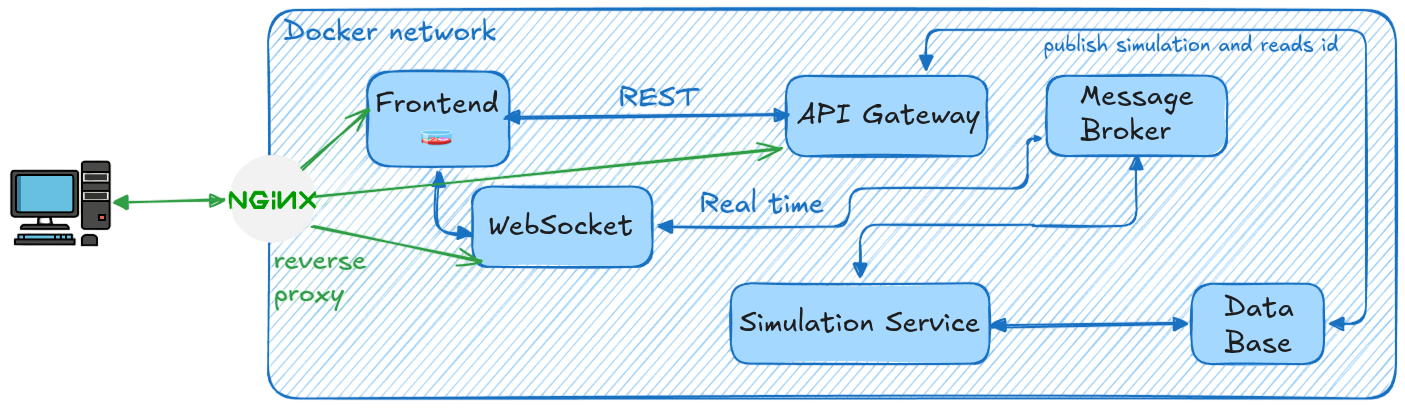
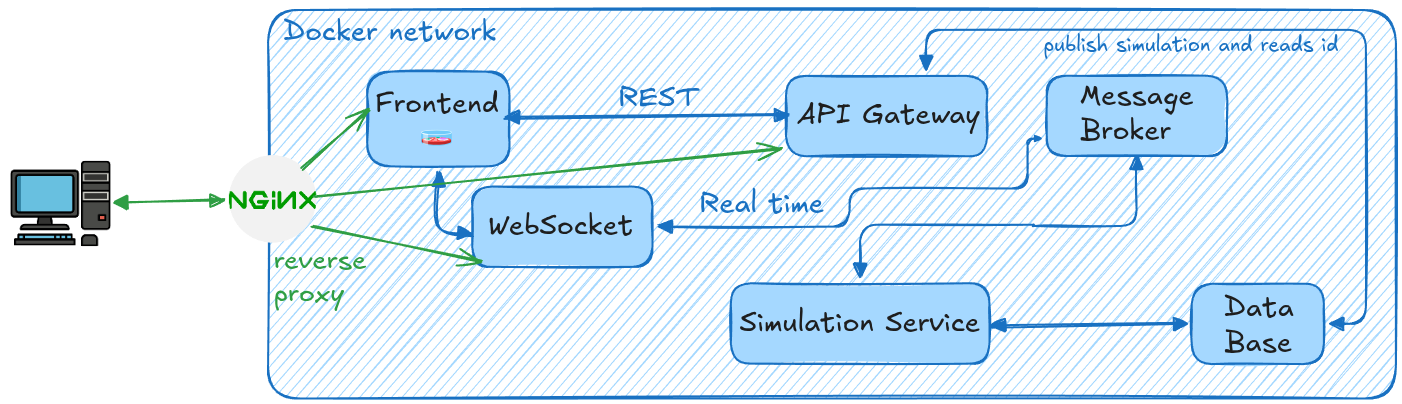
fix: readme added image again

diff --git a/README.md b/README.md
@@ -6,7 +6,7 @@ A scalable, asynchronous simulation system based on an event-driven architecture
 
 The system consists of decoupled services that communicate through a message broker.
 
-![Architecture Design](./architecture_desgin.png)
+<img src="./architecture_desgin.png" alt="Architecture Diagram"/>
 
 ### Workflow
 1. **API:** Receives the request via `POST /simulate`, creates a record in the DB (status `pending`), and publishes an event.
